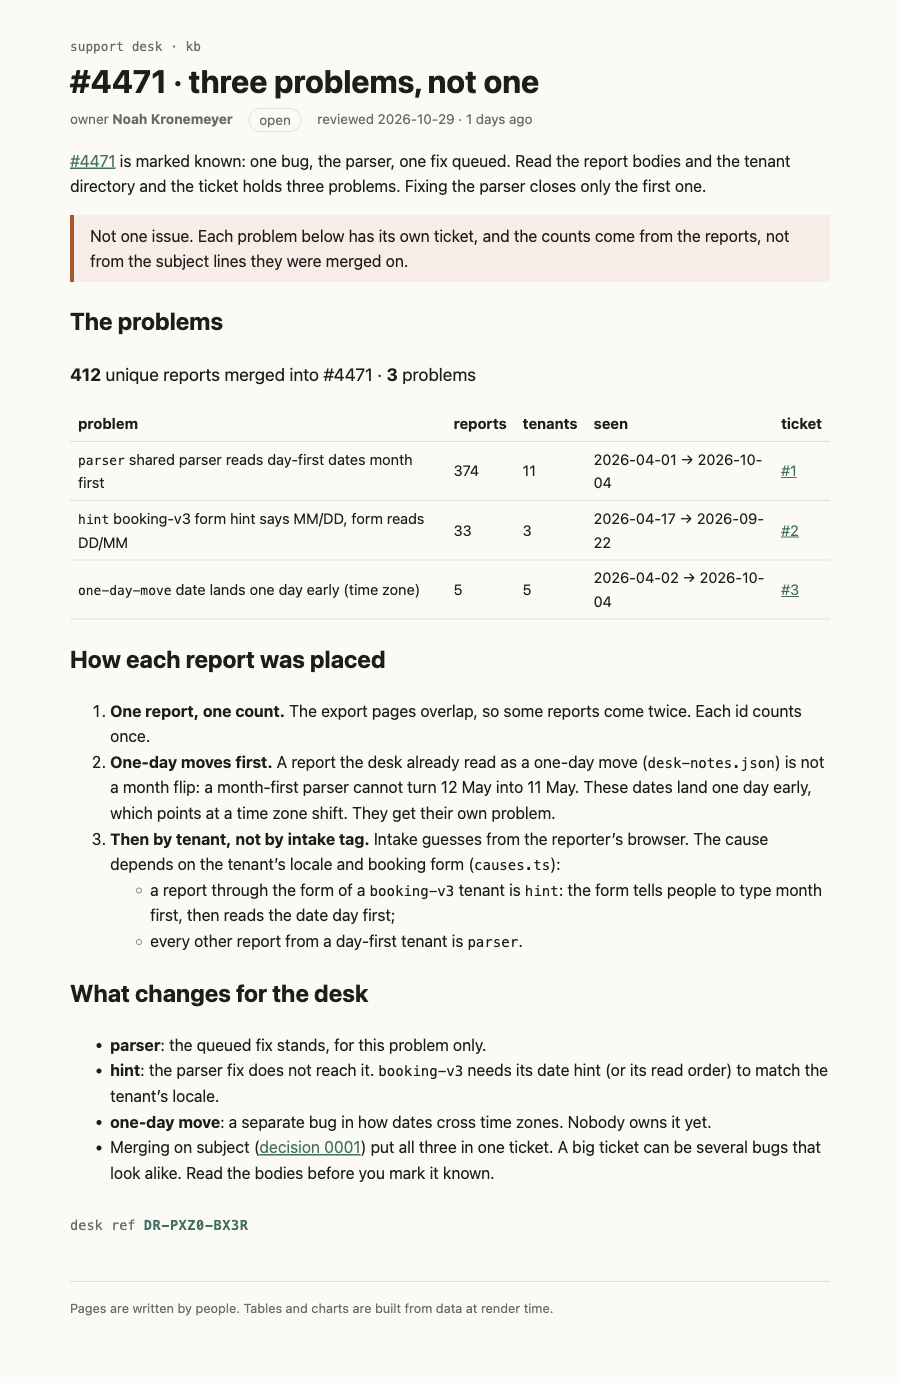
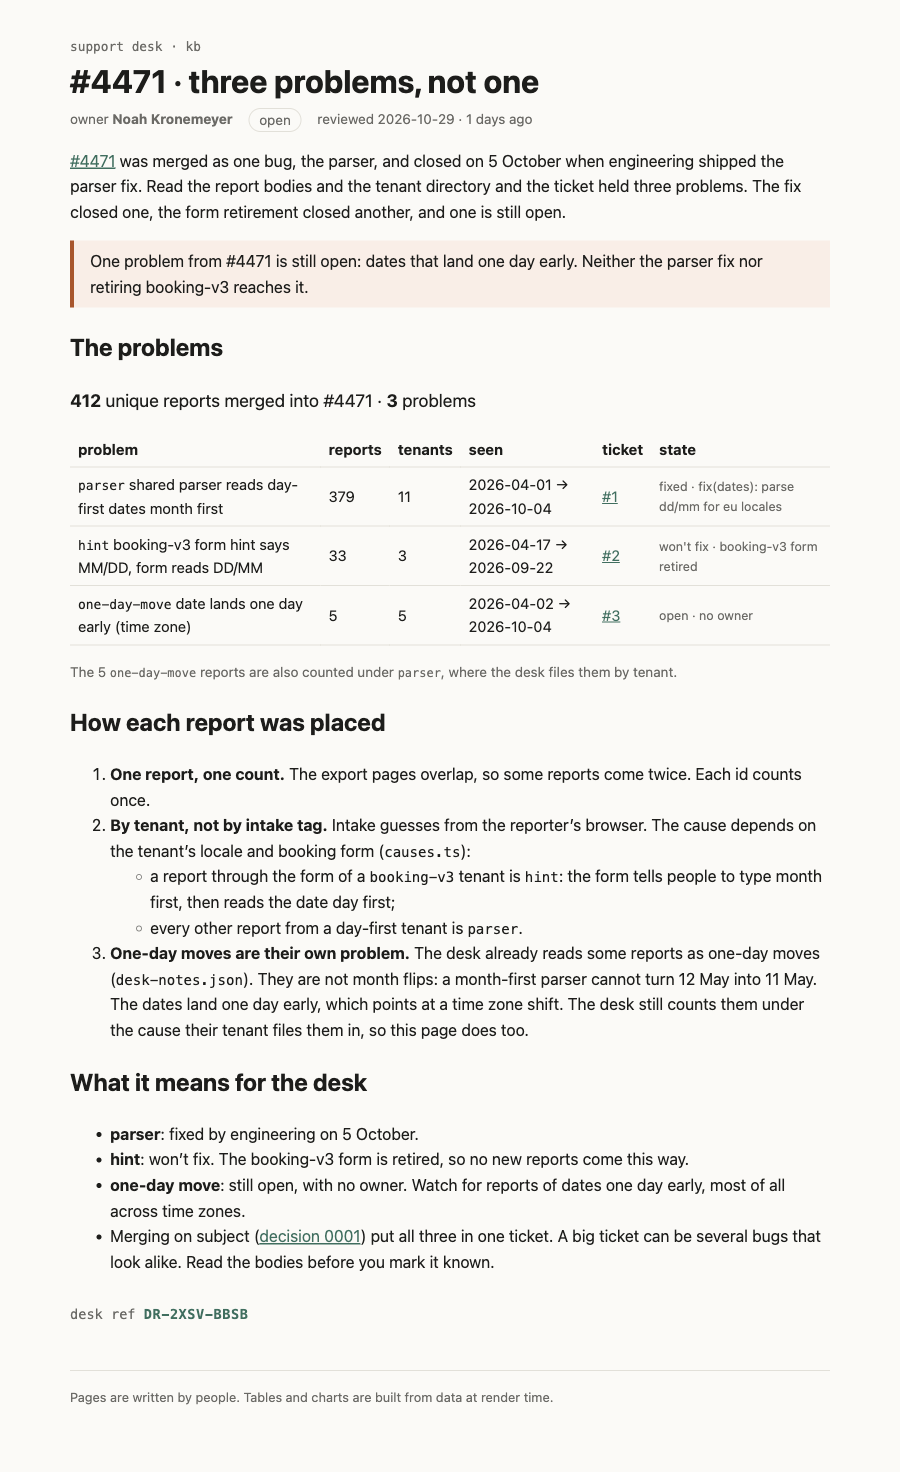
kb: sign the #4471 page, count as the desk does, add engineering update

Changed region(s): [[0.0622, 0.0311, 0.9022, 0.9017], [0.0933, 0.9328, 0.6222, 0.9638]]

diff --git a/rendered/kb-incidents-4471-problems.html b/rendered/kb-incidents-4471-problems.html
@@ -5,20 +5,22 @@
 </style>
 		<style>aside.svelte-17bri61{border-left:4px solid var(--accent);background:var(--note-bg);margin:1rem 0;padding:.5rem 1rem}aside.warn.svelte-17bri61{border-color:var(--warn);background:var(--warn-bg)}
 </style>
-		<style>.sum.svelte-1op6c6{font-size:1.1rem}.stamp.svelte-1280m42{font:.85rem var(--mono);color:var(--muted);margin:2rem 0 0}.stamp.svelte-1280m42 b:where(.svelte-1280m42){color:var(--accent);letter-spacing:.04em}.missing.svelte-1280m42{color:var(--warn)}
+		<style>.sum.svelte-1op6c6{font-size:1.1rem}.state.svelte-1op6c6,.note.svelte-1op6c6{color:var(--muted);font-size:.85em}.stamp.svelte-1280m42{font:.85rem var(--mono);color:var(--muted);margin:2rem 0 0}.stamp.svelte-1280m42 b:where(.svelte-1280m42){color:var(--accent);letter-spacing:.04em}.missing.svelte-1280m42{color:var(--warn)}
 </style></head>
-  <body><div style="display: contents"><!--[--><!--[--><!--[0--><!--[--><!--[--><!--[-1--><!--[--><div class="kb svelte-e2jw2j"><header><a class="crumb svelte-e2jw2j" href="/kb">support desk · kb</a> <h1 class="svelte-e2jw2j">#4471 · three problems, not one</h1> <p class="meta svelte-e2jw2j"><span>owner <b>Noah Kronemeyer</b></span> <span class="status open svelte-e2jw2j">open</span> <span class="svelte-e2jw2j">reviewed 2026-10-29 · 1 days ago</span></p></header> <!--[-1--><!--]--> <main><p><a href="/kb/incidents/4471">#4471</a> is marked known: one bug, the parser, one fix queued. Read the
-report bodies and the tenant directory and the ticket holds three problems. Fixing the parser
-closes only the first one.</p> <aside class="warn svelte-17bri61"><!---->Not one issue. Each problem below has its own ticket, and the counts come from the reports, not
-from the subject lines they were merged on.<!----></aside><!----> <h2>The problems</h2> <p class="sum svelte-1op6c6"><strong>412</strong> unique reports merged into #4471 · <strong>3</strong> problems</p> <table><thead><tr><th>problem</th><th>reports</th><th>tenants</th><th>seen</th><th>ticket</th></tr></thead><tbody><!--[--><tr><td><code>parser</code> shared parser reads day-first dates month first</td><td>374</td><td>11</td><td>2026-04-01 → 2026-10-04</td><td><!--[0--><a href="https://github.com/NoahDavidATL/support-kb-4471/issues/1">#1</a><!--]--></td></tr><tr><td><code>hint</code> booking-v3 form hint says MM/DD, form reads DD/MM</td><td>33</td><td>3</td><td>2026-04-17 → 2026-09-22</td><td><!--[0--><a href="https://github.com/NoahDavidATL/support-kb-4471/issues/2">#2</a><!--]--></td></tr><tr><td><code>one-day-move</code> date lands one day early (time zone)</td><td>5</td><td>5</td><td>2026-04-02 → 2026-10-04</td><td><!--[0--><a href="https://github.com/NoahDavidATL/support-kb-4471/issues/3">#3</a><!--]--></td></tr><!--]--></tbody></table><!----> <h2>How each report was placed</h2> <ol><li><strong>One report, one count.</strong> The export pages overlap, so some reports come twice. Each id
-counts once.</li> <li><strong>One-day moves first.</strong> A report the desk already read as a one-day move
-(<code>desk-notes.json</code>) is not a month flip: a month-first parser cannot turn 12 May into 11 May.
-These dates land one day early, which points at a time zone shift. They get their own problem.</li> <li><strong>Then by tenant, not by intake tag.</strong> Intake guesses from the reporter’s browser. The cause
+  <body><div style="display: contents"><!--[--><!--[--><!--[0--><!--[--><!--[--><!--[-1--><!--[--><div class="kb svelte-e2jw2j"><header><a class="crumb svelte-e2jw2j" href="/kb">support desk · kb</a> <h1 class="svelte-e2jw2j">#4471 · three problems, not one</h1> <p class="meta svelte-e2jw2j"><span>owner <b>Noah Kronemeyer</b></span> <span class="status open svelte-e2jw2j">open</span> <span class="svelte-e2jw2j">reviewed 2026-10-29 · 1 days ago</span></p></header> <!--[-1--><!--]--> <main><p><a href="/kb/incidents/4471">#4471</a> was merged as one bug, the parser, and closed on 5 October when
+engineering shipped the parser fix. Read the report bodies and the tenant directory and the
+ticket held three problems. The fix closed one, the form retirement closed another, and one is
+still open.</p> <aside class="warn svelte-17bri61"><!---->One problem from #4471 is still open: dates that land one day early. Neither the parser fix
+nor retiring booking-v3 reaches it.<!----></aside><!----> <h2>The problems</h2> <p class="sum svelte-1op6c6"><strong>412</strong> unique reports merged into #4471 · <strong>3</strong> problems</p> <table><thead><tr><th>problem</th><th>reports</th><th>tenants</th><th>seen</th><th>ticket</th><th>state</th></tr></thead><tbody><!--[--><tr><td><code>parser</code> shared parser reads day-first dates month first</td><td>379</td><td>11</td><td>2026-04-01 → 2026-10-04</td><td><!--[0--><a href="https://github.com/NoahDavidATL/support-kb-4471/issues/1">#1</a><!--]--></td><td class="state svelte-1op6c6">fixed · fix(dates): parse dd/mm for eu locales</td></tr><tr><td><code>hint</code> booking-v3 form hint says MM/DD, form reads DD/MM</td><td>33</td><td>3</td><td>2026-04-17 → 2026-09-22</td><td><!--[0--><a href="https://github.com/NoahDavidATL/support-kb-4471/issues/2">#2</a><!--]--></td><td class="state svelte-1op6c6">won't fix · booking-v3 form retired</td></tr><tr><td><code>one-day-move</code> date lands one day early (time zone)</td><td>5</td><td>5</td><td>2026-04-02 → 2026-10-04</td><td><!--[0--><a href="https://github.com/NoahDavidATL/support-kb-4471/issues/3">#3</a><!--]--></td><td class="state svelte-1op6c6">open · no owner</td></tr><!--]--></tbody></table> <!--[--><!--[-1--><!--]--><!--[-1--><!--]--><!--[0--><p class="note svelte-1op6c6">The 5 <code>one-day-move</code> reports are also counted under <code>parser</code>, where the desk files them by tenant.</p><!--]--><!--]--><!----> <h2>How each report was placed</h2> <ol><li><strong>One report, one count.</strong> The export pages overlap, so some reports come twice. Each id
+counts once.</li> <li><strong>By tenant, not by intake tag.</strong> Intake guesses from the reporter’s browser. The cause
 depends on the tenant’s locale and booking form (<code>causes.ts</code>): <ul><li>a report through the form of a <code>booking-v3</code> tenant is <code>hint</code>: the form tells people to
-type month first, then reads the date day first;</li> <li>every other report from a day-first tenant is <code>parser</code>.</li></ul></li></ol> <h2>What changes for the desk</h2> <ul><li><strong>parser</strong>: the queued fix stands, for this problem only.</li> <li><strong>hint</strong>: the parser fix does not reach it. <code>booking-v3</code> needs its date hint (or its read
-order) to match the tenant’s locale.</li> <li><strong>one-day move</strong>: a separate bug in how dates cross time zones. Nobody owns it yet.</li> <li>Merging on subject (<a href="/kb/decisions/0001-dedupe-by-subject">decision 0001</a>) put all three
+type month first, then reads the date day first;</li> <li>every other report from a day-first tenant is <code>parser</code>.</li></ul></li> <li><strong>One-day moves are their own problem.</strong> The desk already reads some reports as one-day
+moves (<code>desk-notes.json</code>). They are not month flips: a month-first parser cannot turn
+12 May into 11 May. The dates land one day early, which points at a time zone shift. The
+desk still counts them under the cause their tenant files them in, so this page does too.</li></ol> <h2>What it means for the desk</h2> <ul><li><strong>parser</strong>: fixed by engineering on 5 October.</li> <li><strong>hint</strong>: won’t fix. The booking-v3 form is retired, so no new reports come this way.</li> <li><strong>one-day move</strong>: still open, with no owner. Watch for reports of dates one day early,
+most of all across time zones.</li> <li>Merging on subject (<a href="/kb/decisions/0001-dedupe-by-subject">decision 0001</a>) put all three
 in one ticket. A big ticket can be several bugs that look alike. Read the bodies before you
-mark it known.</li></ul> <!--[0--><p class="stamp svelte-1280m42">desk ref <b class="svelte-1280m42">DR-PXZ0-BX3R</b></p><!--]--><!----><!----></main> <footer class="svelte-e2jw2j">Pages are written by people. Tables and charts are built from data at render time.</footer></div><!--]--><!--]--><!--]--><!----><!--]--><!--]--><!--]--><!----> <!--[-1--><!--]--><!--]-->
+mark it known.</li></ul> <!--[0--><p class="stamp svelte-1280m42">desk ref <b class="svelte-1280m42">DR-2XSV-BBSB</b></p><!--]--><!----><!----></main> <footer class="svelte-e2jw2j">Pages are written by people. Tables and charts are built from data at render time.</footer></div><!--]--><!--]--><!--]--><!----><!--]--><!--]--><!--]--><!----> <!--[-1--><!--]--><!--]-->
 			
 			
 		</div></body>

diff --git a/src/lib/kb/problems.ts b/src/lib/kb/problems.ts
@@ -1,45 +1,46 @@
-// The problems inside a merged ticket. causes.ts places a report by its tenant; a report the desk
-// read as a one-day move (desk-notes.json) is not a month flip at all, so it is its own problem here.
-import { causeOf, uniqueById, type Report, type Tenant } from '#lib/kb/causes';
+// The problems inside a merged ticket, counted the way the desk's own view counts them: by cause
+// (causes.ts), with the reports the desk read as one-day moves (desk-notes.json) as their own row.
+// Those stay counted under the cause their tenant files them in, as CauseTable does.
+import { groupByCause, uniqueById, type CauseGroup, type Report, type Tenant } from '#lib/kb/causes';
 
-export type Problem = 'parser' | 'hint' | 'one-day-move' | 'unplaced';
+export type Problem = CauseGroup['cause'] | 'one-day-move';
 
-export type ProblemGroup = {
+export type ProblemRow = {
   problem: Problem;
-  reports: Report[];
+  reports: number;
   tenants: number;
   firstSeen: string;
   lastSeen: string;
+  // For one-day moves: the cause the desk files them under.
+  filedUnder?: CauseGroup['cause'];
 };
 
-export function problemOf(r: Report, t: Tenant | undefined, oneDayMove: readonly string[]): Problem {
-  if (oneDayMove.includes(r.id)) return 'one-day-move';
-  return causeOf(r, t) ?? 'unplaced';
-}
-
-export function groupByProblem(
+export function problemRows(
   all: Report[],
   ticket: number,
   tenantOf: (r: Report) => Tenant | undefined,
   oneDayMove: readonly string[],
-): { total: number; groups: ProblemGroup[] } {
+): { total: number; rows: ProblemRow[] } {
   const merged = uniqueById(all).filter((r) => r.mergedInto === ticket);
-  const by = new Map<Problem, Report[]>();
-  for (const r of merged) {
-    const p = problemOf(r, tenantOf(r), oneDayMove);
-    by.set(p, [...(by.get(p) ?? []), r]);
+  const groups = groupByCause(merged, tenantOf);
+  const rows: ProblemRow[] = groups.map((g) => ({
+    problem: g.cause,
+    reports: g.reports.length,
+    tenants: g.tenants,
+    firstSeen: g.firstSeen,
+    lastSeen: g.lastSeen,
+  }));
+  const moved = merged.filter((r) => oneDayMove.includes(r.id));
+  if (moved.length) {
+    const days = moved.map((r) => r.receivedAt.slice(0, 10)).sort();
+    rows.push({
+      problem: 'one-day-move',
+      reports: moved.length,
+      tenants: new Set(moved.map((r) => r.tenant)).size,
+      firstSeen: days[0],
+      lastSeen: days[days.length - 1],
+      filedUnder: groups.find((g) => g.reports.some((r) => oneDayMove.includes(r.id)))?.cause,
+    });
   }
-  const groups = [...by.entries()]
-    .map(([problem, rs]) => {
-      const days = rs.map((r) => r.receivedAt.slice(0, 10)).sort();
-      return {
-        problem,
-        reports: rs,
-        tenants: new Set(rs.map((r) => r.tenant)).size,
-        firstSeen: days[0],
-        lastSeen: days[days.length - 1],
-      };
-    })
-    .sort((a, b) => b.reports.length - a.reports.length);
-  return { total: merged.length, groups };
+  return { total: merged.length, rows };
 }

diff --git a/src/lib/kb/ProblemTable.svelte b/src/lib/kb/ProblemTable.svelte
@@ -3,53 +3,52 @@
   import notes from '#lib/data/desk-notes.json';
   import type { Report } from '#lib/kb/causes';
   import { tenantOf } from '#lib/kb/locales';
-  import { groupByProblem, type Problem } from '#lib/kb/problems';
+  import { problemRows, type Problem } from '#lib/kb/problems';
+
+  type Ticket = { issue: number; label: string; state: string };
 
   let {
     ticket,
-    issues = {},
-    repo = '',
-  }: { ticket: number; issues?: Partial<Record<Problem, number>>; repo?: string } = $props();
+    repo,
+    tickets,
+  }: { ticket: number; repo: string; tickets: Partial<Record<Problem, Ticket>> } = $props();
 
-  const LABEL: Record<Problem, string> = {
-    parser: 'shared parser reads day-first dates month first',
-    hint: 'booking-v3 form hint says MM/DD, form reads DD/MM',
-    'one-day-move': 'date lands one day early (time zone)',
-    unplaced: 'no tenant on file',
-  };
-
-  const result = $derived(groupByProblem(reports as Report[], ticket, tenantOf, notes.oneDayMove));
+  const result = $derived(problemRows(reports as Report[], ticket, tenantOf, notes.oneDayMove));
 </script>
 
 <p class="sum">
   <strong>{result.total}</strong> unique reports merged into #{ticket} ·
-  <strong>{result.groups.length}</strong>
-  {result.groups.length === 1 ? 'problem' : 'problems'}
+  <strong>{result.rows.length}</strong>
+  {result.rows.length === 1 ? 'problem' : 'problems'}
 </p>
 
 <table>
   <thead>
-    <tr><th>problem</th><th>reports</th><th>tenants</th><th>seen</th><th>ticket</th></tr>
+    <tr><th>problem</th><th>reports</th><th>tenants</th><th>seen</th><th>ticket</th><th>state</th></tr>
   </thead>
   <tbody>
-    {#each result.groups as g (g.problem)}
+    {#each result.rows as row (row.problem)}
+      {@const t = tickets[row.problem]}
       <tr>
-        <td><code>{g.problem}</code> {LABEL[g.problem]}</td>
-        <td>{g.reports.length}</td>
-        <td>{g.tenants}</td>
-        <td>{g.firstSeen} → {g.lastSeen}</td>
-        <td>
-          {#if issues[g.problem]}
-            <a href="{repo}/issues/{issues[g.problem]}">#{issues[g.problem]}</a>
-          {:else}
-            none yet
-          {/if}
-        </td>
+        <td><code>{row.problem}</code> {t?.label ?? ''}</td>
+        <td>{row.reports}</td>
+        <td>{row.tenants}</td>
+        <td>{row.firstSeen} → {row.lastSeen}</td>
+        <td>{#if t}<a href="{repo}/issues/{t.issue}">#{t.issue}</a>{:else}none yet{/if}</td>
+        <td class="state">{t?.state ?? 'open'}</td>
       </tr>
     {/each}
   </tbody>
 </table>
 
+{#each result.rows as row (row.problem)}
+  {#if row.filedUnder}
+    <p class="note">The {row.reports} <code>{row.problem}</code> reports are also counted under <code>{row.filedUnder}</code>, where the desk files them by tenant.</p>
+  {/if}
+{/each}
+
 <style>
   .sum { font-size: 1.1rem; }
+  .state { color: var(--muted); font-size: 0.85em; }
+  .note { color: var(--muted); font-size: 0.85em; }
 </style>
